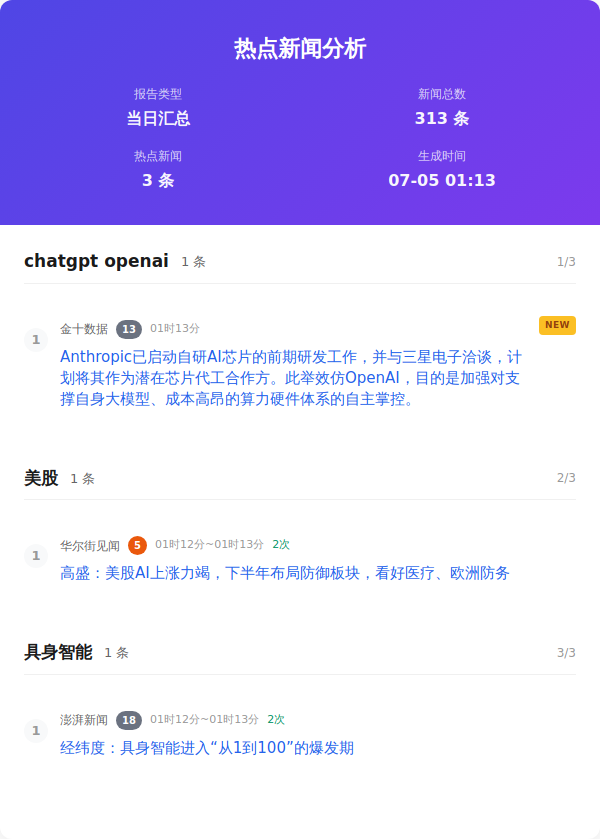
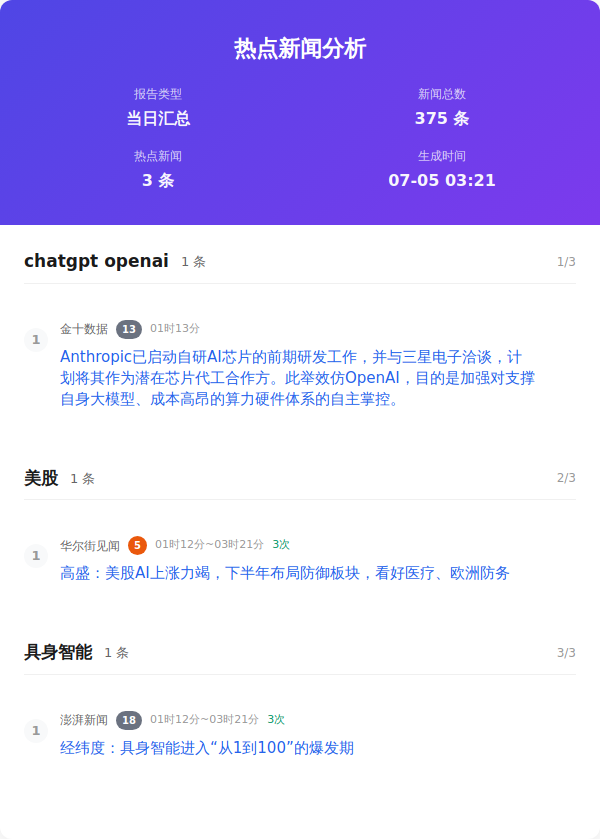
Auto update by GitHub Actions at Sun Jul  5 03:21:55 CST 2026

diff --git a/output/2026年07月05日/html/当日汇总.html b/output/2026年07月05日/html/当日汇总.html
@@ -357,7 +357,7 @@
                     </div>
                     <div class="info-item">
                         <span class="info-label">新闻总数</span>
-                        <span class="info-value">313 条</span>
+                        <span class="info-value">375 条</span>
                     </div>
                     <div class="info-item">
                         <span class="info-label">热点新闻</span>
@@ -365,7 +365,7 @@
                     </div>
                     <div class="info-item">
                         <span class="info-label">生成时间</span>
-                        <span class="info-value">07-05 01:13</span>
+                        <span class="info-value">07-05 03:21</span>
                     </div>
                 </div>
             </div>
@@ -379,7 +379,7 @@
                         </div>
                         <div class="word-index">1/3</div>
                     </div>
-                    <div class="news-item new">
+                    <div class="news-item ">
                         <div class="news-number">1</div>
                         <div class="news-content">
                             <div class="news-header">
@@ -402,7 +402,7 @@
                         <div class="news-number">1</div>
                         <div class="news-content">
                             <div class="news-header">
-                                <span class="source-name">华尔街见闻</span><span class="rank-num high">5</span><span class="time-info">01时12分~01时13分</span><span class="count-info">2次</span>
+                                <span class="source-name">华尔街见闻</span><span class="rank-num high">5</span><span class="time-info">01时12分~03时21分</span><span class="count-info">3次</span>
                             </div>
                             <div class="news-title"><a href="https://wallstreetcn.com/articles/3776200" target="_blank" class="news-link">高盛：美股AI上涨力竭，下半年布局防御板块，看好医疗、欧洲防务</a>
                             </div>
@@ -421,7 +421,7 @@
                         <div class="news-number">1</div>
                         <div class="news-content">
                             <div class="news-header">
-                                <span class="source-name">澎湃新闻</span><span class="rank-num ">18</span><span class="time-info">01时12分~01时13分</span><span class="count-info">2次</span>
+                                <span class="source-name">澎湃新闻</span><span class="rank-num ">18</span><span class="time-info">01时12分~03时21分</span><span class="count-info">3次</span>
                             </div>
                             <div class="news-title"><a href="https://m.thepaper.cn/newsDetail_forward_33511330" target="_blank" class="news-link">经纬度：具身智能进入“从1到100”的爆发期</a>
                             </div>